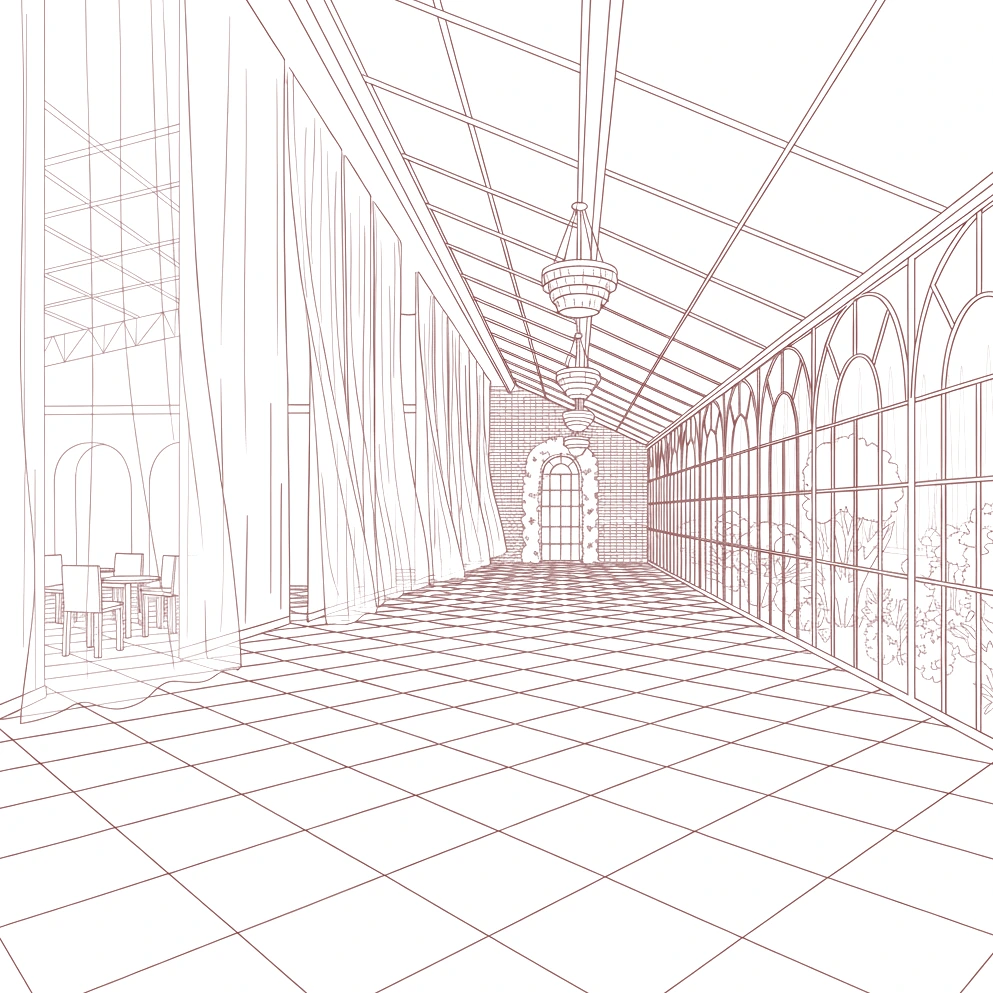
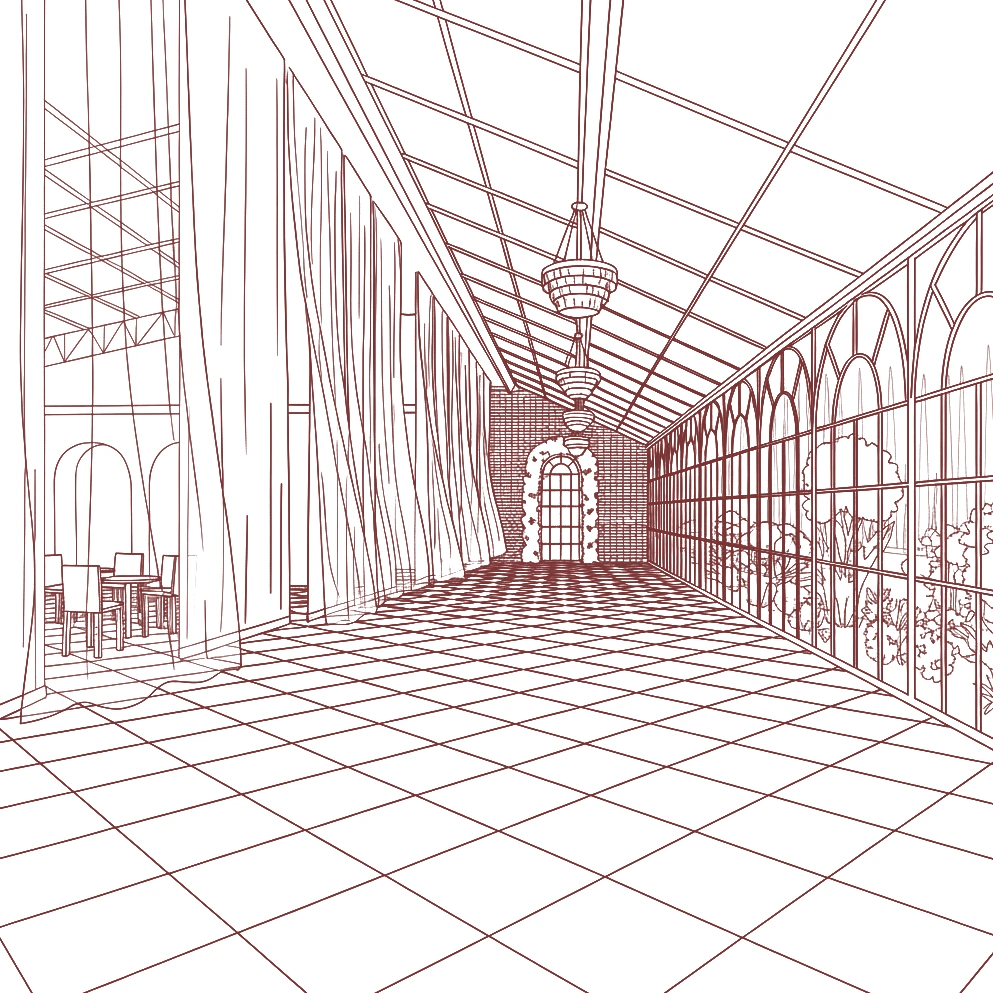
style: bulk-darken all four space illustrations non-linearly to increase line-weight visibility and consistency, with cache-buster bump to v=23

diff --git a/index.html b/index.html
@@ -880,7 +880,7 @@ ul { list-style: none; }
     <!-- AURELIUS - Grand Hall Interior -->
     <div class="sov-card reveal">
       <div class="sov-illus">
-        <img src="veloura-imgs/sov_aurelius_crop.webp?v=22" alt="Aurelius Celebration Hall illustration" style="width:100%;height:100%;object-fit:contain;">
+        <img src="veloura-imgs/sov_aurelius_crop.webp?v=23" alt="Aurelius Celebration Hall illustration" style="width:100%;height:100%;object-fit:contain;">
       </div>
       <p class="sov-name">Aurelius</p>
       <p class="sov-sub">Celebration Hall</p>
@@ -889,7 +889,7 @@ ul { list-style: none; }
     <!-- THE PROMENADE - Garden Gazebo -->
     <div class="sov-card reveal d1">
       <div class="sov-illus">
-        <img src="veloura-imgs/sov_promenade_crop.webp?v=22" alt="The Promenade Outdoor Lawn illustration" style="width:100%;height:100%;object-fit:contain;">
+        <img src="veloura-imgs/sov_promenade_crop.webp?v=23" alt="The Promenade Outdoor Lawn illustration" style="width:100%;height:100%;object-fit:contain;">
       </div>
       <p class="sov-name">The Promenade</p>
       <p class="sov-sub">Outdoor Lawn</p>
@@ -898,7 +898,7 @@ ul { list-style: none; }
     <!-- THE LUMIERE - The Glass Pavilion -->
     <div class="sov-card reveal d2">
       <div class="sov-illus">
-        <img src="veloura-imgs/sov_lumiere.webp?v=22" alt="The Lumiere The Glass Pavilion illustration" style="width:100%;height:100%;object-fit:contain;">
+        <img src="veloura-imgs/sov_lumiere.webp?v=23" alt="The Lumiere The Glass Pavilion illustration" style="width:100%;height:100%;object-fit:contain;">
       </div>
       <p class="sov-name">The Lumiere</p>
       <p class="sov-sub">The Glass Pavilion</p>
@@ -907,7 +907,7 @@ ul { list-style: none; }
     <!-- CELESTIA - Dining Hall -->
     <div class="sov-card reveal d3">
       <div class="sov-illus">
-        <img src="veloura-imgs/sov_celestia_crop.webp?v=22" alt="Celestia Dining Hall illustration" style="width:100%;height:100%;object-fit:contain;">
+        <img src="veloura-imgs/sov_celestia_crop.webp?v=23" alt="Celestia Dining Hall illustration" style="width:100%;height:100%;object-fit:contain;">
       </div>
       <p class="sov-name">Celestia</p>
       <p class="sov-sub">Dining Hall</p>
